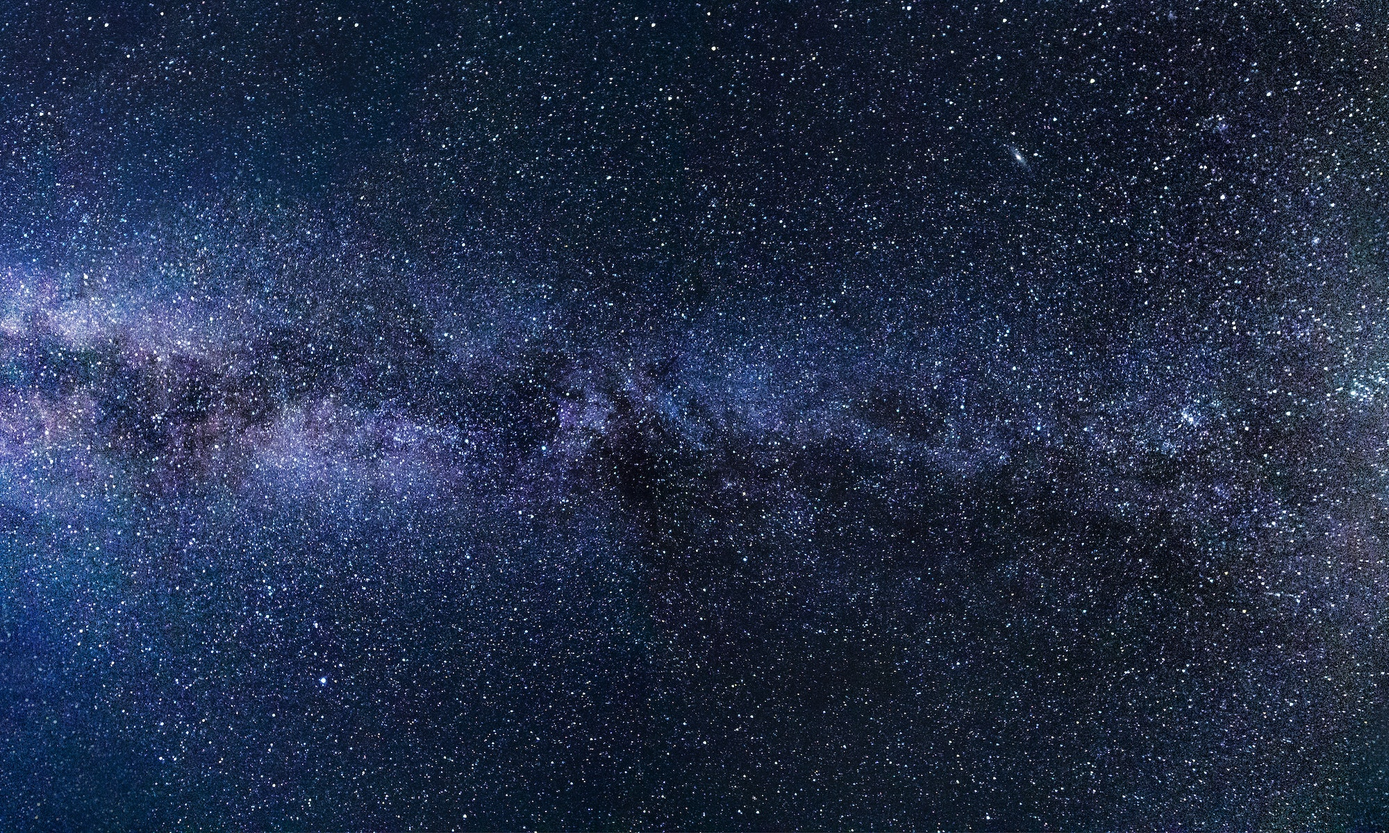
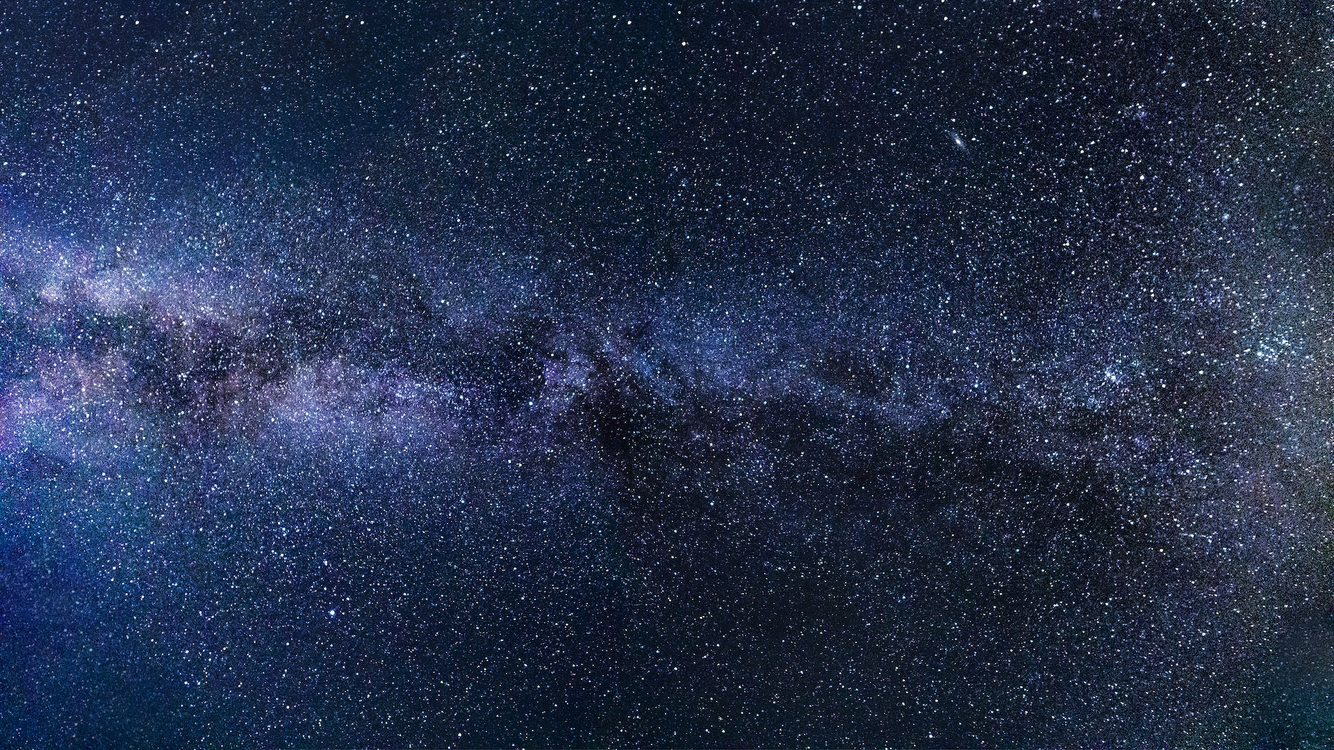
new background image

diff --git a/assets/css/style.css b/assets/css/style.css
@@ -12,10 +12,9 @@ display: grid;
 
 
 :root{
-    background-image: url(../images/background.jpg);
-    background-size: 200px;
+    background-image: url(../images/nightsky.jpeg);
+background-size: cover;
 }
- 
 .container.main-header {
     display: grid;
     justify-content: center;
